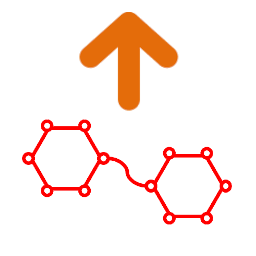
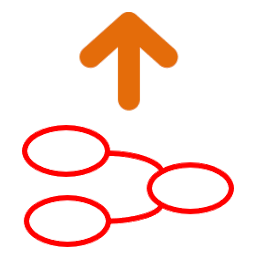
Improved styling
Simpler CLAST icon plus factor and cluster icons; more consistent colors

Changed region(s): [[0.0625, 0.4688, 0.9375, 0.9688]]

diff --git a/index.html b/index.html
@@ -240,8 +240,10 @@ and move the cursor over the status bar">
   </footer>
   <!-- the side bar holds buttons for editing the model (ADD, DELETE, UNDO, REDO) and for running it -->
   <div id="sidebar">
-    <img id="activity-btn" class="btn toggle enab" src="images/activity.png"
-         title="Add function">
+    <img id="factor-btn" class="btn toggle enab" src="images/factor.png"
+         title="Add factor">
+    <img id="cluster-btn" class="btn toggle enab" src="images/cluster.png"
+         title="Add cluster">
     <img id="note-btn" class="btn toggle enab sep" src="images/note.png"
          title="Add note">
     <img id="clone-btn" class="btn disab" src="images/clone.png"

diff --git a/clast.css b/clast.css
@@ -291,11 +291,11 @@ img.disab {
 }
 
 img.activ {
-  background-color: #a880b8;
+  background-color: #d89800;
 }
 
 img.stay-activ {
-  background-color: #f09090;
+  background-color: #ffd060;
 }
 
 img.off {
